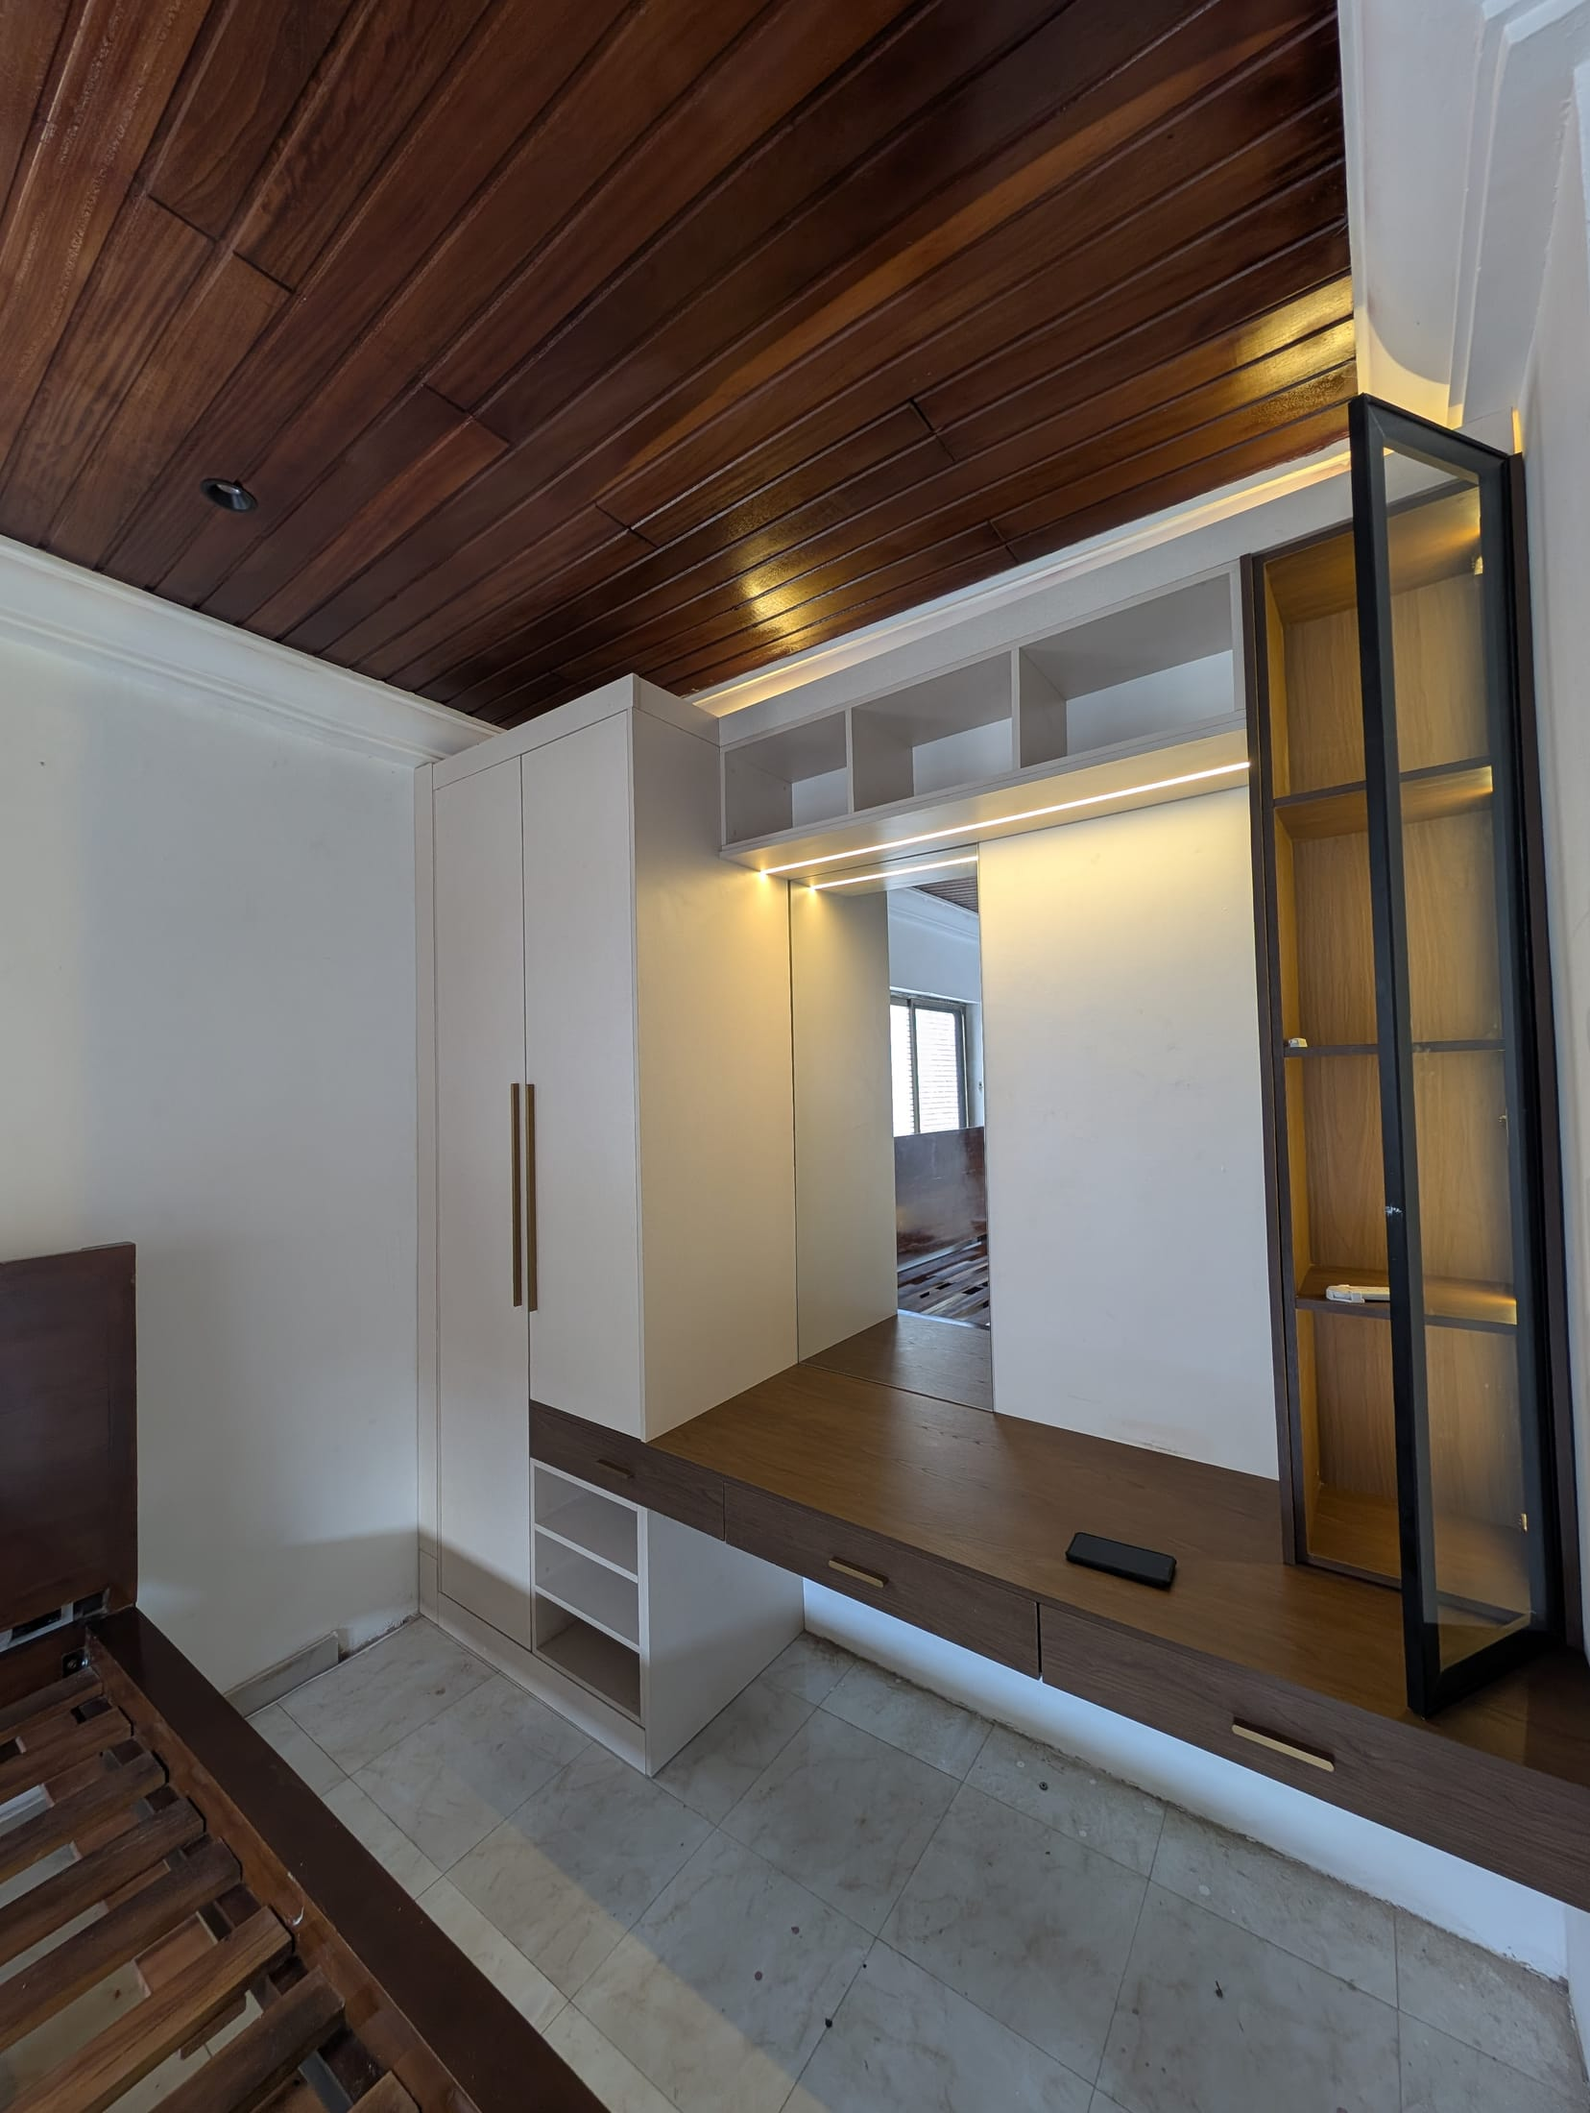
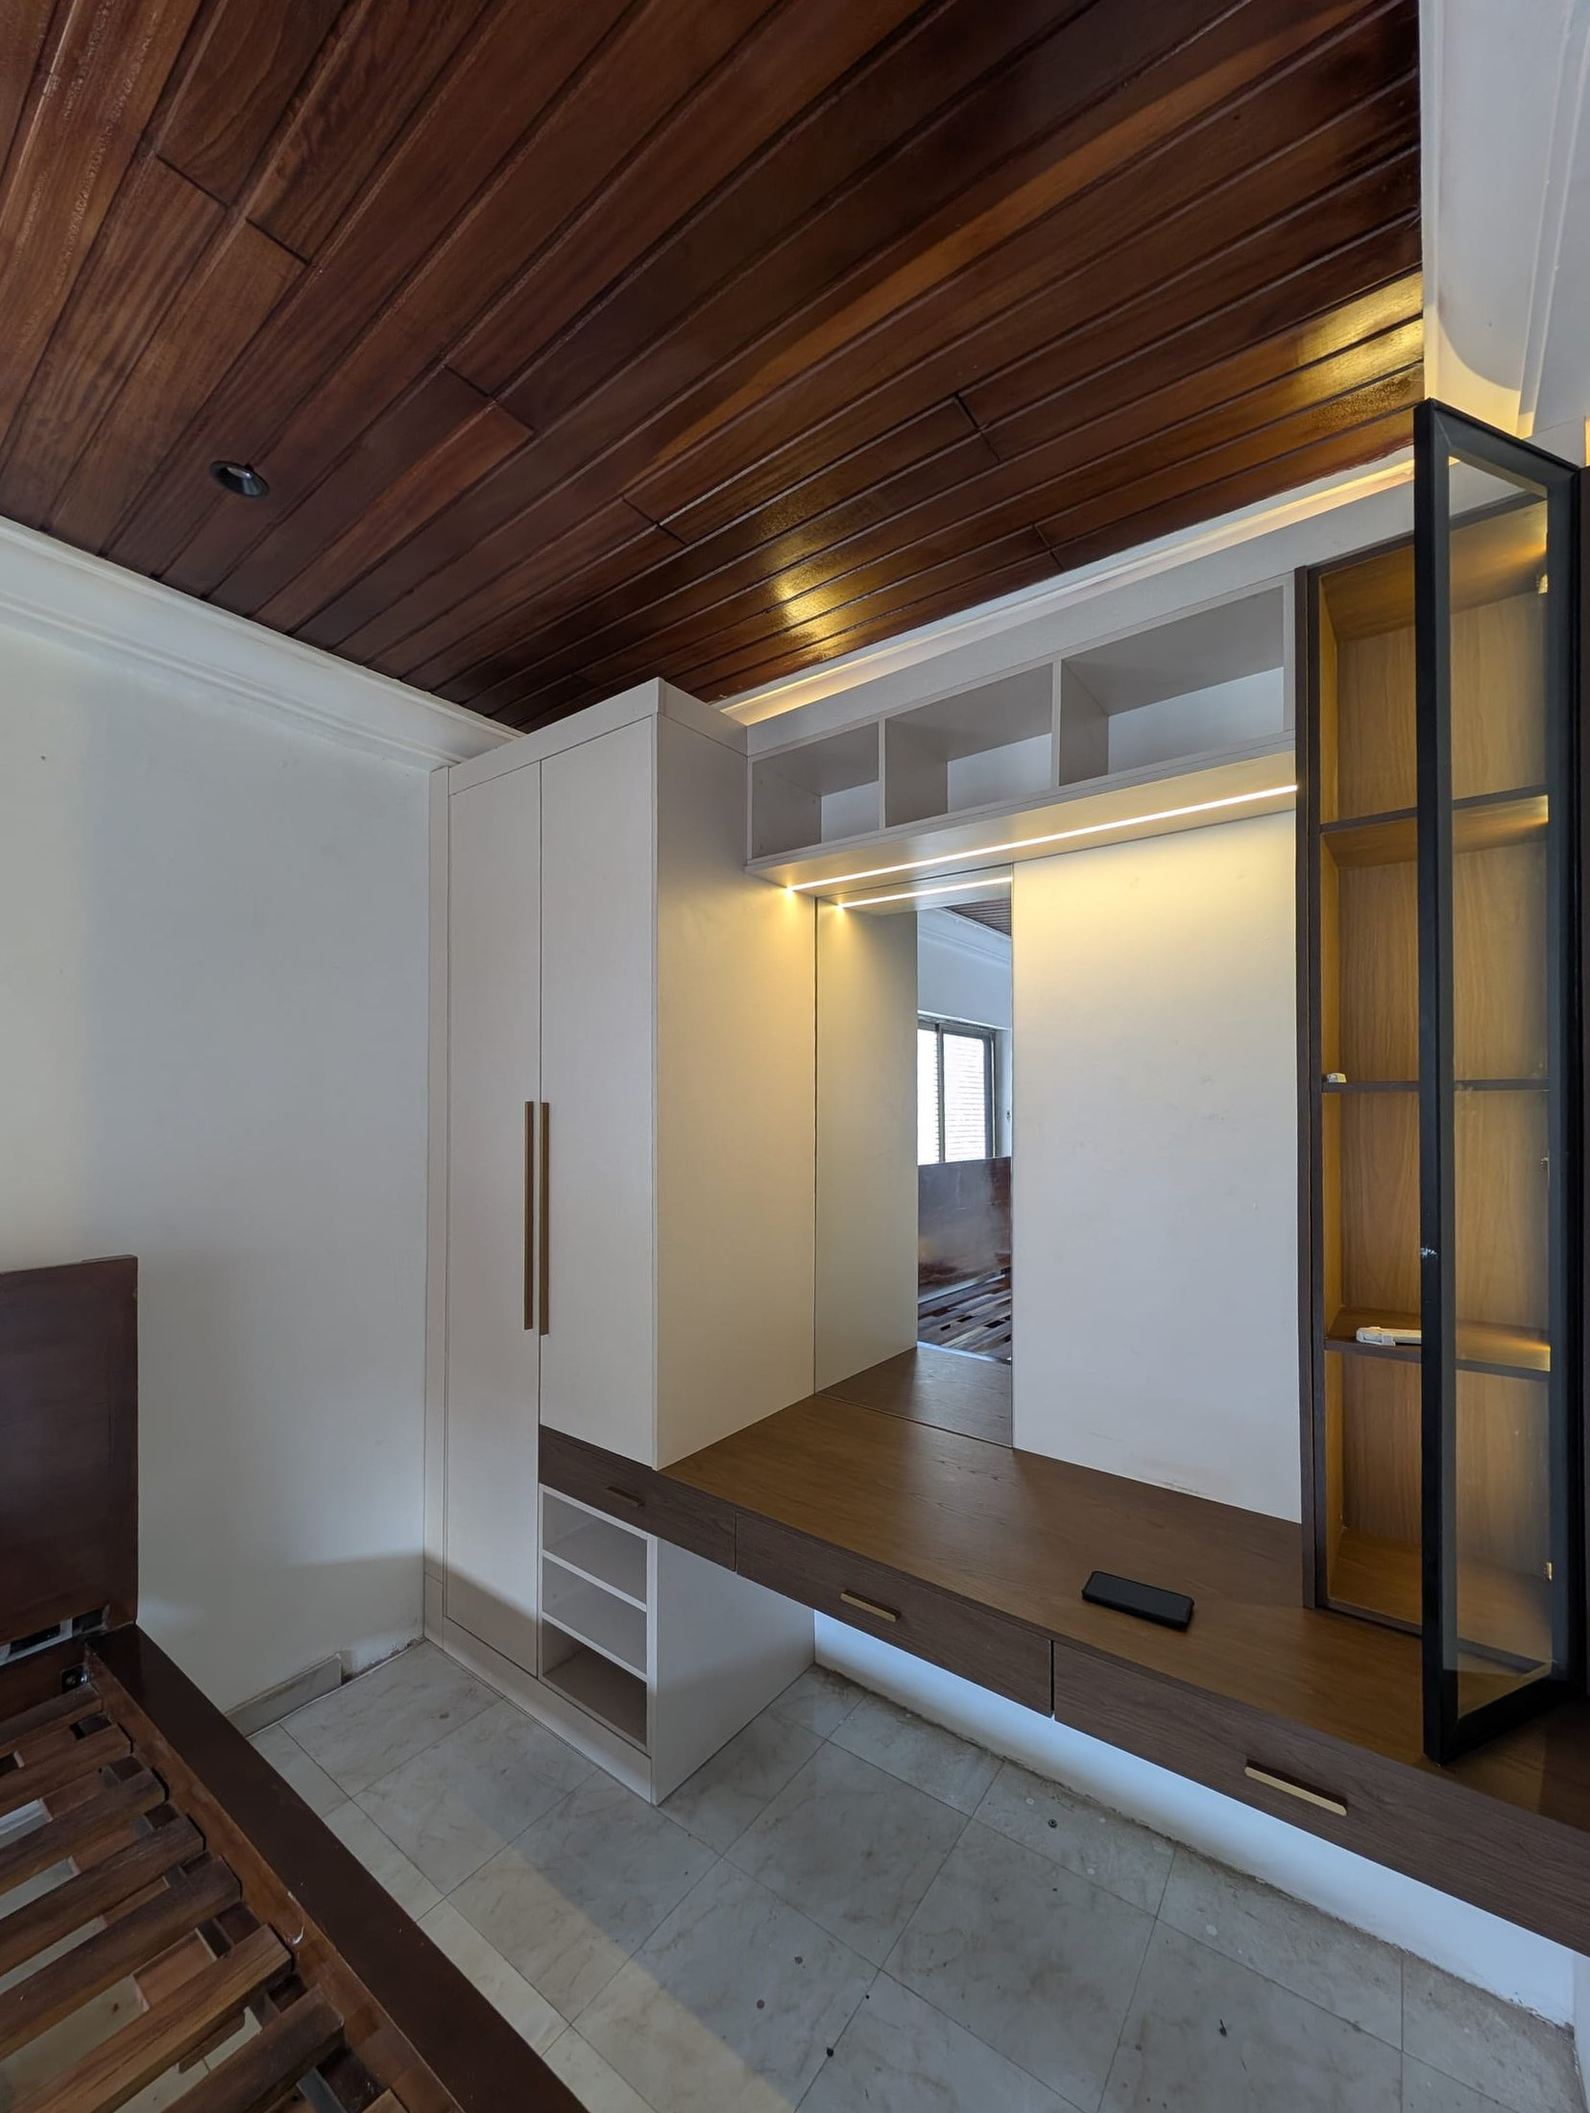
Straighten seven hero photos; add the straightening tool
Lean measured from each photo's own vertical lines and corrected, same
file names and pixel sizes. TV wall also loses some yellow cast; the
East Legon dining room gets its shadows lifted. Review sheets in
docs/review.

diff --git a/scripts/straighten.py b/scripts/straighten.py
@@ -1,0 +1,89 @@
+"""Measure and correct lean in a photo from its own vertical lines.
+measure(img) -> (roll, keystone, n): roll = average lean of verticals (dx/dy), keystone = how fast
+that lean changes across the frame (converging walls). correct() removes the roll and part of the
+keystone, then crops back to the original shape. Nothing else in the picture is altered."""
+import sys, math
+import numpy as np, cv2
+
+def measure(bgr):
+    h, w = bgr.shape[:2]
+    s = 1200 / max(h, w)
+    g = cv2.cvtColor(cv2.resize(bgr, None, fx=s, fy=s), cv2.COLOR_BGR2GRAY)
+    g = cv2.GaussianBlur(g, (3, 3), 0)
+    lines = cv2.createLineSegmentDetector().detect(g)[0]
+    if lines is None: return 0, 0, 0
+    H, W = g.shape
+    xs, sl, wt = [], [], []
+    for x1, y1, x2, y2 in np.asarray(lines).reshape(-1, 4):
+        dy = y2 - y1; dx = x2 - x1
+        L = math.hypot(dx, dy)
+        if L < 0.07 * H or abs(dy) < 1e-3: continue
+        slope = dx / dy                       # 0 = perfectly vertical
+        if abs(slope) > math.tan(math.radians(14)): continue
+        xs.append(((x1 + x2) / 2 - W / 2) / s); sl.append(slope); wt.append(L)
+    if len(xs) < 12: return 0, 0, len(xs)
+    xs, sl, wt = map(np.array, (xs, sl, wt))
+    a, c = 0.0, 0.0
+    for _ in range(6):                        # robust weighted line fit: slope = a + c*x
+        r = sl - (a + c * xs)
+        k = wt / (1 + (r / 0.02) ** 2)
+        A = np.vstack([np.ones_like(xs), xs]).T * k[:, None]
+        a, c = np.linalg.lstsq(A, sl * k, rcond=None)[0]
+    return float(a), float(c), len(xs)
+
+def warp_matrix(w, h, roll, key):
+    cx, cy = w / 2, h / 2
+    T = np.array([[1, 0, -cx], [0, 1, -cy], [0, 0, 1]], float)
+    Ti = np.array([[1, 0, cx], [0, 1, cy], [0, 0, 1]], float)
+    th = math.atan(roll)
+    R = np.array([[math.cos(th), -math.sin(th), 0], [math.sin(th), math.cos(th), 0], [0, 0, 1]])
+    P = np.array([[1, 0, 0], [0, 1, 0], [0, key, 1]], float)
+    return Ti @ P @ R @ T
+
+def correct(bgr, key_strength=0.75, max_roll_deg=4.0, max_loss=0.14):
+    h, w = bgr.shape[:2]
+    roll, key, n = measure(bgr)
+    if n < 12: return bgr, dict(n=n, note='too few lines, left alone')
+    roll = max(-math.tan(math.radians(max_roll_deg)), min(math.tan(math.radians(max_roll_deg)), roll))
+    best = None
+    for sr in (1, -1):                        # try both sign conventions, keep whichever truly straightens
+        for sk in (1, -1):
+            M = warp_matrix(w, h, sr * roll, sk * key * key_strength)
+            out = cv2.warpPerspective(bgr, M, (w, h), flags=cv2.INTER_LANCZOS4, borderMode=cv2.BORDER_REPLICATE)
+            r2, k2, _ = measure(out)
+            score = abs(r2) + abs(k2) * w / 2
+            if best is None or score < best[0]: best = (score, M, r2, k2)
+    before = abs(roll) + abs(key) * w / 2
+    score, M, r2, k2 = best
+    info = dict(n=n, roll_deg=round(math.degrees(math.atan(roll)), 2), edge_lean_deg=round(math.degrees(math.atan(key * w / 2)), 2),
+                after_roll_deg=round(math.degrees(math.atan(r2)), 2), after_edge_deg=round(math.degrees(math.atan(k2 * w / 2)), 2))
+    if before < math.tan(math.radians(0.35)): return bgr, dict(info, note='already straight')
+    if score > before * 0.75: return bgr, dict(info, note='no clear improvement, left alone')
+    # crop to the largest same-shape rectangle that holds no stretched border
+    pts = cv2.perspectiveTransform(np.float32([[[0, 0]], [[w, 0]], [[w, h]], [[0, h]]]), M)[:, 0]
+    left = max(pts[0][0], pts[3][0], 0); right = min(pts[1][0], pts[2][0], w)
+    top = max(pts[0][1], pts[1][1], 0); bot = min(pts[2][1], pts[3][1], h)
+    cw, ch = right - left, bot - top
+    sc = min(cw / w, ch / h)
+    if sc < 1 - max_loss: return bgr, dict(info, note='would crop too much, left alone')
+    nw, nh = w * sc, h * sc
+    x0 = left + (cw - nw) / 2; y0 = top + (ch - nh) / 2
+    out = cv2.warpPerspective(bgr, M, (w, h), flags=cv2.INTER_LANCZOS4, borderMode=cv2.BORDER_REPLICATE)
+    crop = out[int(round(y0)):int(round(y0 + nh)), int(round(x0)):int(round(x0 + nw))]
+    return cv2.resize(crop, (w, h), interpolation=cv2.INTER_LANCZOS4), dict(info, kept=round(sc, 3), note='straightened')
+
+def tone(bgr, wb=0.0, lift=0.0):
+    """Optional: partial neutral white balance and a shadow lift. Wood colour is left alone unless wb > 0."""
+    a = bgr[:, :, ::-1].astype(np.float32) / 255
+    if wb:
+        lum = a.mean(axis=2); chroma = a.max(axis=2) - a.min(axis=2)
+        m = (lum > np.percentile(lum, 60)) & (chroma < np.percentile(chroma, 40))
+        ref = a[m].mean(axis=0); a = a * (1 + wb * (ref.mean() / ref - 1))
+    if lift: a = a + lift * a * (1 - a) ** 2 * 2
+    return (np.clip(a, 0, 1)[:, :, ::-1] * 255 + 0.5).astype(np.uint8)
+
+if __name__ == '__main__':
+    for p in sys.argv[1:]:
+        img = cv2.imread(p)
+        out, info = correct(img)
+        print(p.split('/')[-1], info)

diff --git a/CLAUDE.md b/CLAUDE.md
@@ -60,7 +60,7 @@ python -m http.server 8080
 - Push notifications open `/dispatch.html` on click
 
 ## Next up: design review game plan (2026-11-13)
-Owner's aim is **timeless elegance**. A full review of the Astro site and an owner-approved, ordered plan live in **`docs/design-review-plan.md`**. Work it **one step per session**, tick each step off in that file: 1 calm it down (motion, type scale, labels, footer logo, nav) · 2 shorten phone pages + re-pick heroes · 3 finish the migration (case studies, remove React, split global.css, content collections) · 4 one copy voice · 5 owner decisions (CMS posts at build time, photo shoot). **Step 1 DONE 2026-11-14** (motion stripped to one fade, Lenis removed, seven type tokens `--t-*` with 17px body and weight-400 serif, one tracked-capitals style `.label`, small footer logo, nav = "What we make" dropdown + Portfolio + Contact). **Rules from now on: use only the `--t-*` size tokens, no new animations or hover zooms, no new uppercase labels.** **Step 2 DONE 2026-11-14** (long galleries show 6 + "Show all", two compact columns on phones, tighter homepage process/Sage sections; owner-picked heroes: Wardrobes = Bortianor glass-front, Beds = Sage Centre teak bed). Gallery option `limit` (default 6, 0 = none); PageHero option `hero.position`. **Step 3 DONE 2026-11-14:** every marketing page is now Astro: the 9 case studies (`src/content/projects/*.js`, route `src/pages/projects/[slug].astro`), `privacy.astro`, `404.astro`; old files in `docs/legacy/`. React is removed (no JS bundles ship). Styles live in `src/styles/global.css` + `home.css` + `page.css` + `forms.css`, imported where used. `src/content/check.js` fails the build on a malformed content file. Pages share their own hero photo (`ogImg`). `sitemap.xml` stays hand-maintained on purpose (it also lists tools and Concierge). Tools, catalogue, pricing and Concierge keep their own designs. Open question for the owner: privacy policy still names Formspree as the form processor. **Step 4 DONE 2026-11-14:** copy is in one voice (four oldest case studies rewritten in full, light pass elsewhere; SEO titles/descriptions untouched; the East Legon client's first name is out of visible copy). **Admin-posted projects are built into the pages (2026-11-14, owner go-ahead):** `src/cms.js` reads the posts list from the dispatch Worker at build time (read only; Worker/KV/R2 untouched), cards get web-sized photos and `data-cms-id`, `js/cms-posts.js` only adds posts newer than the build, and `admin.html` shrinks photos before upload. A new post shows at once and becomes a built-in card at the next push. Details: `docs/tools/cms-posts.md`. Remaining: a professional photo shoot. The privacy policy's contact-form paragraph was corrected 2026-11-14 (own site on Cloudflare, not Formspree; "Last updated: November 2026").
+Owner's aim is **timeless elegance**. A full review of the Astro site and an owner-approved, ordered plan live in **`docs/design-review-plan.md`**. Work it **one step per session**, tick each step off in that file: 1 calm it down (motion, type scale, labels, footer logo, nav) · 2 shorten phone pages + re-pick heroes · 3 finish the migration (case studies, remove React, split global.css, content collections) · 4 one copy voice · 5 owner decisions (CMS posts at build time, photo shoot). **Step 1 DONE 2026-11-14** (motion stripped to one fade, Lenis removed, seven type tokens `--t-*` with 17px body and weight-400 serif, one tracked-capitals style `.label`, small footer logo, nav = "What we make" dropdown + Portfolio + Contact). **Rules from now on: use only the `--t-*` size tokens, no new animations or hover zooms, no new uppercase labels.** **Step 2 DONE 2026-11-14** (long galleries show 6 + "Show all", two compact columns on phones, tighter homepage process/Sage sections; owner-picked heroes: Wardrobes = Bortianor glass-front, Beds = Sage Centre teak bed). Gallery option `limit` (default 6, 0 = none); PageHero option `hero.position`. **Step 3 DONE 2026-11-14:** every marketing page is now Astro: the 9 case studies (`src/content/projects/*.js`, route `src/pages/projects/[slug].astro`), `privacy.astro`, `404.astro`; old files in `docs/legacy/`. React is removed (no JS bundles ship). Styles live in `src/styles/global.css` + `home.css` + `page.css` + `forms.css`, imported where used. `src/content/check.js` fails the build on a malformed content file. Pages share their own hero photo (`ogImg`). `sitemap.xml` stays hand-maintained on purpose (it also lists tools and Concierge). Tools, catalogue, pricing and Concierge keep their own designs. Open question for the owner: privacy policy still names Formspree as the form processor. **Step 4 DONE 2026-11-14:** copy is in one voice (four oldest case studies rewritten in full, light pass elsewhere; SEO titles/descriptions untouched; the East Legon client's first name is out of visible copy). **Admin-posted projects are built into the pages (2026-11-14, owner go-ahead):** `src/cms.js` reads the posts list from the dispatch Worker at build time (read only; Worker/KV/R2 untouched), cards get web-sized photos and `data-cms-id`, `js/cms-posts.js` only adds posts newer than the build, and `admin.html` shrinks photos before upload. A new post shows at once and becomes a built-in card at the next push. Details: `docs/tools/cms-posts.md`. **Hero photos straightened 2026-11-14** with `scripts/straighten.py` (seven files edited in place; list, limits and before/after sheets in `docs/design-review-plan.md` and `docs/review/`). Remaining: a professional photo shoot. The privacy policy's contact-form paragraph was corrected 2026-11-14 (own site on Cloudflare, not Formspree; "Last updated: November 2026").
 
 ## Redesign prototype (Astro, 2026-11-13)
 Owner asked for a clean-slate premium redesign ("forget the rules, use React/Node, act as a senior dev"). Working prototype of the homepage lived in **`_studio/astro/`** (gitignored, local only; **deleted 2026-11-13** with the rest of `_studio/` once the real site moved to `src/`: source to the Recycle Bin, node_modules/build output removed outright): Astro 7 + one React island (work gallery), `astro:assets` responsive AVIF/WebP, self-hosted fonts (Cormorant Garamond + Manrope), Lenis smooth scroll, new palette from the wood (bone `#efe9df`, espresso `#17130f`, walnut `#6b4a33`, brass `#c49455`), the logo's slanted N as the one motif (`.slash`). Content is all in static HTML (no-JS safe), services index links to the existing pages, JSON-LD + GA4 (prod domain only). Lighthouse local: mobile 98/100/100/100 at 258 KB, desktop 100x4. Copy lives in `src/data.js`; photos in `src/assets/photos/`. Run: `npm --prefix _studio/astro run build` then launch config `astro` (port 4321). Earlier throwaway versions: `_studio/site/` (Vite React SPA, superseded because it shipped empty HTML) and root `concept-premium.html` (deleted to the Recycle Bin 2026-11-13, owner: concepts no longer needed). Judith's half-done move to the old green design was saved as `docs/legacy/judith-east-legon-green-draft.html` and the live page left as it was; the Astro case-study rebuild replaces both. Not yet decided: whether the whole site moves to Astro.

diff --git a/docs/design-review-plan.md b/docs/design-review-plan.md
@@ -67,3 +67,10 @@ Working well: the bone / espresso / walnut palette with brass used sparingly; re
 
 ## Still open from earlier sessions
 - `scripts/check-live.mjs` + weekly run (owner said yes; not built). See CLAUDE.md "In progress".
+
+## Photo editing (2026-11-14, owner: "Yes, heroes first")
+- Tool: `scripts/straighten.py` (needs `numpy` + `opencv-python-headless`; installed to a scratch folder, not the repo). It measures lean from a photo's own vertical lines, removes the roll and 75% of the converging-walls effect, crops back to the same pixel size, and refuses to act when there are too few lines, no clear gain, or the crop would lose more than 14%. `tone()` adds an optional partial white balance and shadow lift. It never alters the furniture.
+- Edited in place (same file names and sizes, originals in git history): `bortianor-kitchen-wide`, `bortianor-living-tv-wall` (also less yellow), `bortianor-master-wardrobe`, `achimota-hero-wide`, `golf-hills-installed-6`, `how-hero` (+ `how-gallery-1`, the same photo), `judith-set-installed-2` (shadows lifted only). Before/after sheets: `docs/review/hero-edits-1.jpg`, `-2.jpg`.
+- Left alone on purpose: the Sage photos (professional), the three shots looking down at a table (Afromosia, Roman Ridge, East Legon: correcting them would distort the table), Jerksoul and the Dome chest (too few straight lines to measure).
+- Honest limits: a light automatic colour clean-up changes little (`docs/review/photo-cleanup-demo.jpg`); the bigger gains are straightening, cropping and how new photos are taken. Removing objects (the cable in the TV wall photo, the protective stickers on the glass wardrobe) needs a retouching tool and the owner's OK to upload photos to it. Not done.
+- Next if wanted: run the same tool over gallery photos.
